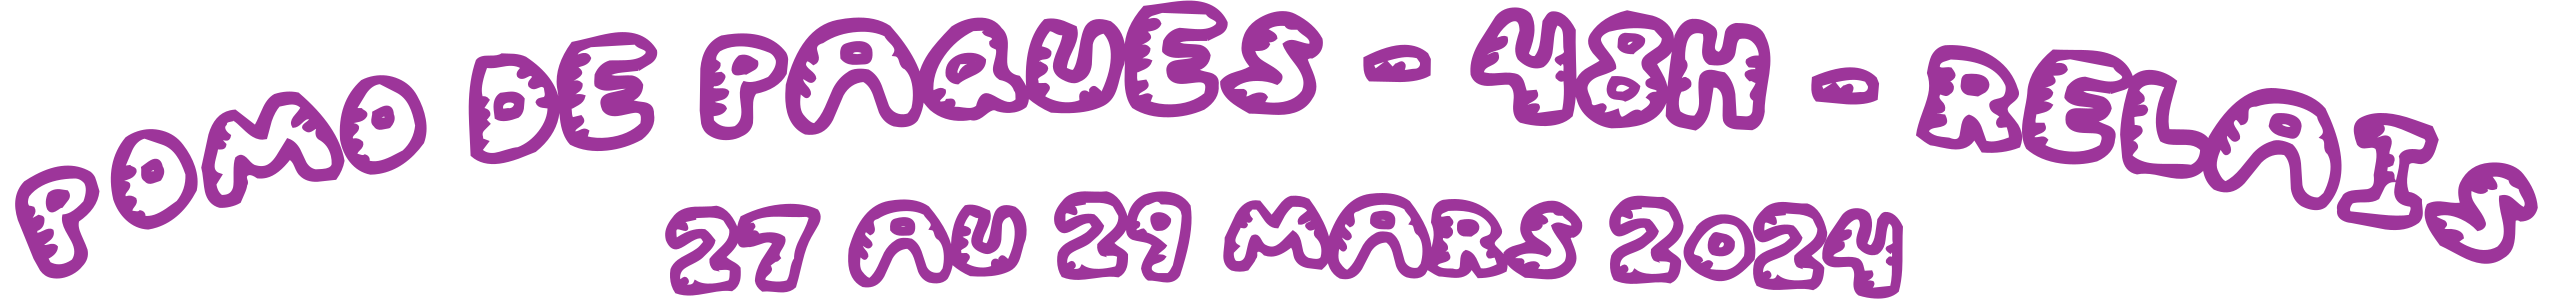
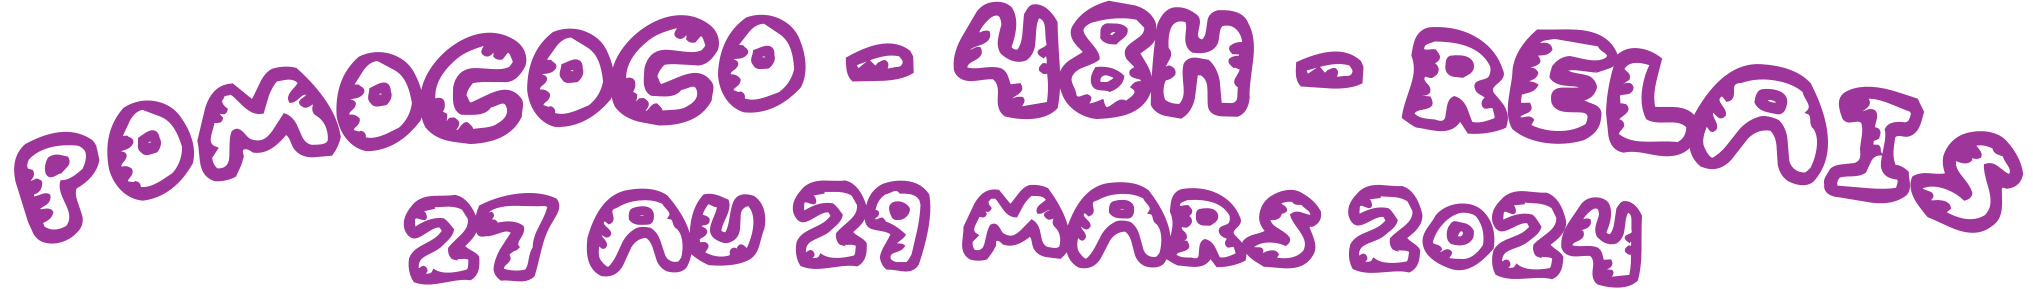
Changed name for PomoCoco

diff --git a/lib/main.dart b/lib/main.dart
@@ -1,14 +1,14 @@
 import 'package:flutter/material.dart';
 import 'package:intl/date_symbol_data_local.dart';
 import 'package:intl/intl.dart';
-import 'package:pomo_de_paque_website/managers/chatters_manager.dart';
-import 'package:pomo_de_paque_website/managers/config_manager.dart';
-import 'package:pomo_de_paque_website/managers/schedule_manager.dart';
-import 'package:pomo_de_paque_website/managers/theme_manager.dart';
-import 'package:pomo_de_paque_website/models/chatter.dart';
-import 'package:pomo_de_paque_website/managers/twitch_manager.dart';
-import 'package:pomo_de_paque_website/screens/connect_streamers_page.dart';
-import 'package:pomo_de_paque_website/screens/main_page.dart';
+import 'package:pomo_coco_website/managers/chatters_manager.dart';
+import 'package:pomo_coco_website/managers/config_manager.dart';
+import 'package:pomo_coco_website/managers/schedule_manager.dart';
+import 'package:pomo_coco_website/managers/theme_manager.dart';
+import 'package:pomo_coco_website/models/chatter.dart';
+import 'package:pomo_coco_website/managers/twitch_manager.dart';
+import 'package:pomo_coco_website/screens/connect_streamers_page.dart';
+import 'package:pomo_coco_website/screens/main_page.dart';
 
 Future<void> _initializeIntl() async {
   WidgetsFlutterBinding.ensureInitialized();
@@ -16,15 +16,16 @@ Future<void> _initializeIntl() async {
   await initializeDateFormatting();
 }
 
-Future<void> _initializeManagers({bool useMock = false}) async {
-  if (useMock) TwitchManagerMock.initializeMock();
+Future<void> _initializeManagers(
+    {bool useTwitchMock = false, bool useManagerMock = false}) async {
+  if (useTwitchMock) TwitchManagerMock.initializeMock();
   TwitchManager.instance.initialize(
-    useMock: useMock,
+    useMock: useTwitchMock,
     debugOptions: ConfigManager.instance.twitchDebugPanel,
     appInfo: ConfigManager.instance.twichAppInfo,
   );
 
-  if (useMock) {
+  if (useManagerMock) {
     ScheduleManagerMock.initializeMock();
 
     final chatters = ChattersManager.instance;
@@ -40,7 +41,7 @@ Future<void> _initializeManagers({bool useMock = false}) async {
 
 void main() async {
   await _initializeIntl();
-  await _initializeManagers(useMock: false);
+  await _initializeManagers(useTwitchMock: false, useManagerMock: true);
   runApp(const MyApp(isServer: false));
 }
 

diff --git a/lib/screens/introduction_page.dart b/lib/screens/introduction_page.dart
@@ -1,8 +1,8 @@
 import 'package:flutter/gestures.dart';
 import 'package:flutter/material.dart';
-import 'package:pomo_de_paque_website/managers/config_manager.dart';
-import 'package:pomo_de_paque_website/widgets/tab_container.dart';
-import 'package:pomo_de_paque_website/widgets/youtube_box.dart';
+import 'package:pomo_coco_website/managers/config_manager.dart';
+import 'package:pomo_coco_website/widgets/tab_container.dart';
+import 'package:pomo_coco_website/widgets/youtube_box.dart';
 import 'package:url_launcher/url_launcher.dart';
 import 'package:youtube_player_iframe/youtube_player_iframe.dart';
 
@@ -38,10 +38,10 @@ class IntroductionPage extends StatelessWidget {
           ),
           const SizedBox(height: 12),
           const Text(
-              'Bienvenue au Pomo-de-Pâques-48h-Relais!! Yeah!! Heu... le quoi?'),
+              'Bienvenue au PomoCoco-48h-Relais!! Yeah!! Heu... le quoi?'),
           const SizedBox(height: 12),
           const Text(
-              'Le Pomo-de-Pâques-48h-Relais! Ça ne te dit toujours rien? Je t\'explique :'),
+              'Le PomoCoco-48h-Relais! Ça ne te dit toujours rien? Je t\'explique :'),
           const SizedBox(height: 12),
           Text.rich(TextSpan(children: [
             const TextSpan(
@@ -61,7 +61,7 @@ class IntroductionPage extends StatelessWidget {
             ),
             const TextSpan(
                 text:
-                    '), «\u00a0Pâques\u00a0» car l\'événement se tient tout prêt '
+                    '), «\u00a0Coco\u00a0» car l\'événement se tient tout prêt '
                     ' de la fête des oeufs et «\u00a048h\u00a0» pour...48 heures! '
                     'Il s\'agit de la troisième édition de l\'événement de '
                     'cotravail en ligne organisé par des animateurs\u00b7trices de la communauté '

diff --git a/lib/screens/main_page.dart b/lib/screens/main_page.dart
@@ -2,17 +2,17 @@ import 'dart:async';
 import 'dart:math';
 
 import 'package:flutter/material.dart';
-import 'package:pomo_de_paque_website/managers/chatters_manager.dart';
-import 'package:pomo_de_paque_website/managers/schedule_manager.dart';
-import 'package:pomo_de_paque_website/managers/theme_manager.dart';
-import 'package:pomo_de_paque_website/screens/introduction_page.dart';
-import 'package:pomo_de_paque_website/screens/prize_page.dart';
-import 'package:pomo_de_paque_website/screens/schedule_page.dart';
-import 'package:pomo_de_paque_website/screens/streamers_page.dart';
-import 'package:pomo_de_paque_website/screens/thanking_page.dart';
-import 'package:pomo_de_paque_website/screens/viewers_page.dart';
-import 'package:pomo_de_paque_website/widgets/background.dart';
-import 'package:pomo_de_paque_website/widgets/menu.dart';
+import 'package:pomo_coco_website/managers/chatters_manager.dart';
+import 'package:pomo_coco_website/managers/schedule_manager.dart';
+import 'package:pomo_coco_website/managers/theme_manager.dart';
+import 'package:pomo_coco_website/screens/introduction_page.dart';
+import 'package:pomo_coco_website/screens/prize_page.dart';
+import 'package:pomo_coco_website/screens/schedule_page.dart';
+import 'package:pomo_coco_website/screens/streamers_page.dart';
+import 'package:pomo_coco_website/screens/thanking_page.dart';
+import 'package:pomo_coco_website/screens/viewers_page.dart';
+import 'package:pomo_coco_website/widgets/background.dart';
+import 'package:pomo_coco_website/widgets/menu.dart';
 
 class MainPage extends StatefulWidget {
   const MainPage({super.key, required this.isServer});

diff --git a/lib/screens/streamers_page.dart b/lib/screens/streamers_page.dart
@@ -1,10 +1,10 @@
 import 'package:flutter/material.dart';
-import 'package:pomo_de_paque_website/managers/config_manager.dart';
-import 'package:pomo_de_paque_website/managers/theme_manager.dart';
-import 'package:pomo_de_paque_website/models/streamer_info.dart';
-import 'package:pomo_de_paque_website/widgets/animated_expanding_card.dart';
-import 'package:pomo_de_paque_website/widgets/tab_container.dart';
-import 'package:pomo_de_paque_website/widgets/youtube_box.dart';
+import 'package:pomo_coco_website/managers/config_manager.dart';
+import 'package:pomo_coco_website/managers/theme_manager.dart';
+import 'package:pomo_coco_website/models/streamer_info.dart';
+import 'package:pomo_coco_website/widgets/animated_expanding_card.dart';
+import 'package:pomo_coco_website/widgets/tab_container.dart';
+import 'package:pomo_coco_website/widgets/youtube_box.dart';
 import 'package:url_launcher/url_launcher.dart';
 import 'package:youtube_player_iframe/youtube_player_iframe.dart';
 

diff --git a/lib/screens/viewers_page.dart b/lib/screens/viewers_page.dart
@@ -1,10 +1,10 @@
 import 'package:flutter/material.dart';
-import 'package:pomo_de_paque_website/managers/chatters_manager.dart';
-import 'package:pomo_de_paque_website/managers/schedule_manager.dart';
-import 'package:pomo_de_paque_website/managers/theme_manager.dart';
-import 'package:pomo_de_paque_website/models/chatter.dart';
-import 'package:pomo_de_paque_website/widgets/animated_expanding_card.dart';
-import 'package:pomo_de_paque_website/widgets/tab_container.dart';
+import 'package:pomo_coco_website/managers/chatters_manager.dart';
+import 'package:pomo_coco_website/managers/schedule_manager.dart';
+import 'package:pomo_coco_website/managers/theme_manager.dart';
+import 'package:pomo_coco_website/models/chatter.dart';
+import 'package:pomo_coco_website/widgets/animated_expanding_card.dart';
+import 'package:pomo_coco_website/widgets/tab_container.dart';
 
 class ViewersPage extends StatefulWidget {
   const ViewersPage(

diff --git a/lib/managers/config_manager.dart b/lib/managers/config_manager.dart
@@ -1,4 +1,4 @@
-import 'package:pomo_de_paque_website/models/streamer_info.dart';
+import 'package:pomo_coco_website/models/streamer_info.dart';
 import 'package:twitch_manager/twitch_manager.dart';
 
 class ConfigManager {
@@ -12,7 +12,7 @@ class ConfigManager {
   ///
   /// General information
   ///
-  final eventName = 'Pomo de Paques - 48h - Relais';
+  final eventName = 'PomoCoco - 48h - Relais';
   final facebookEventUrl = 'https://facebook.com/events/1557104731490847';
   String youtubeEventUrlId = 'eodaPPwvwxw';
 
@@ -68,8 +68,8 @@ class ConfigManager {
   /// Twitch information
   ///
   final twichAppInfo = TwitchAppInfo(
-    appName: 'Pomo de Paque - 48h - Relais',
-    twitchAppId: 'XXXXXXX',
+    appName: 'PomoCoco - 48h - Relais',
+    twitchAppId: 'wuxnu9zxzhgu3noztxtgdsulk4c950',
     redirectDomain: 'twitchauthentication.pariterre.net',
     scope: [TwitchScope.chatters, TwitchScope.readFollowers],
   );

diff --git a/web/index.html b/web/index.html
@@ -18,18 +18,18 @@
 
   <meta charset="UTF-8">
   <meta content="IE=Edge" http-equiv="X-UA-Compatible">
-  <meta name="description" content="Le site officiel du PomoDePâques 48h Relais!">
+  <meta name="description" content="Le site officiel du PomoCoco-48h-Relais!">
 
   <!-- iOS meta tags & icons -->
   <meta name="apple-mobile-web-app-capable" content="yes">
   <meta name="apple-mobile-web-app-status-bar-style" content="black">
-  <meta name="apple-mobile-web-app-title" content="PomoDePâques-48h-Relais">
+  <meta name="apple-mobile-web-app-title" content="PomoCoco-48h-Relais">
   <link rel="apple-touch-icon" href="icons/Icon-192.png">
 
   <!-- Favicon -->
   <link rel="icon" type="image/png" href="favicon.png"/>
 
-  <title>PomoDePâques-48h-Relais</title>
+  <title>PomoCoco-48h-Relais</title>
   <link rel="manifest" href="manifest.json">
 
   <script>window.flutterWebRenderer = "html"</script>

diff --git a/lib/screens/prize_page.dart b/lib/screens/prize_page.dart
@@ -2,10 +2,10 @@ import 'dart:math';
 
 import 'package:flutter/material.dart';
 import 'package:flutter/services.dart';
-import 'package:pomo_de_paque_website/managers/chatters_manager.dart';
-import 'package:pomo_de_paque_website/managers/theme_manager.dart';
-import 'package:pomo_de_paque_website/models/chatter.dart';
-import 'package:pomo_de_paque_website/widgets/tab_container.dart';
+import 'package:pomo_coco_website/managers/chatters_manager.dart';
+import 'package:pomo_coco_website/managers/theme_manager.dart';
+import 'package:pomo_coco_website/models/chatter.dart';
+import 'package:pomo_coco_website/widgets/tab_container.dart';
 
 class PrizePage extends StatefulWidget {
   const PrizePage({super.key, required this.maxWidth});

diff --git a/lib/screens/schedule_page.dart b/lib/screens/schedule_page.dart
@@ -1,9 +1,9 @@
 import 'package:flutter/material.dart';
 import 'package:intl/intl.dart';
-import 'package:pomo_de_paque_website/managers/schedule_manager.dart';
-import 'package:pomo_de_paque_website/managers/theme_manager.dart';
-import 'package:pomo_de_paque_website/models/schedule_info.dart';
-import 'package:pomo_de_paque_website/widgets/tab_container.dart';
+import 'package:pomo_coco_website/managers/schedule_manager.dart';
+import 'package:pomo_coco_website/managers/theme_manager.dart';
+import 'package:pomo_coco_website/models/schedule_info.dart';
+import 'package:pomo_coco_website/widgets/tab_container.dart';
 import 'package:url_launcher/url_launcher.dart';
 
 class SchedulePage extends StatefulWidget {

diff --git a/lib/widgets/background.dart b/lib/widgets/background.dart
@@ -2,7 +2,7 @@ import 'dart:async';
 import 'dart:math';
 
 import 'package:flutter/material.dart';
-import 'package:pomo_de_paque_website/managers/theme_manager.dart';
+import 'package:pomo_coco_website/managers/theme_manager.dart';
 
 class Background extends StatelessWidget {
   const Background({super.key, required this.child});
@@ -79,7 +79,7 @@ class Background extends StatelessWidget {
           Positioned(
             top: 30,
             child: SizedBox(
-              width: min(700, MediaQuery.of(context).size.width * 0.8),
+              width: min(650, MediaQuery.of(context).size.width * 0.8),
               child: Image.asset('assets/images/title.png'),
             ),
           ),

diff --git a/lib/managers/chatters_manager.dart b/lib/managers/chatters_manager.dart
@@ -1,9 +1,9 @@
 import 'dart:async';
 
-import 'package:pomo_de_paque_website/models/chatter.dart';
-import 'package:pomo_de_paque_website/models/custom_listener.dart';
-import 'package:pomo_de_paque_website/models/streamer.dart';
-import 'package:pomo_de_paque_website/managers/twitch_manager.dart';
+import 'package:pomo_coco_website/models/chatter.dart';
+import 'package:pomo_coco_website/models/custom_listener.dart';
+import 'package:pomo_coco_website/models/streamer.dart';
+import 'package:pomo_coco_website/managers/twitch_manager.dart';
 import 'package:quiver/collection.dart';
 
 class ChattersManager extends DelegatingList<Chatter> with CustomListener {

diff --git a/lib/screens/connect_streamers_page.dart b/lib/screens/connect_streamers_page.dart
@@ -1,6 +1,6 @@
 import 'package:flutter/material.dart';
-import 'package:pomo_de_paque_website/managers/twitch_manager.dart';
-import 'package:pomo_de_paque_website/screens/main_page.dart';
+import 'package:pomo_coco_website/managers/twitch_manager.dart';
+import 'package:pomo_coco_website/screens/main_page.dart';
 import 'package:shared_preferences/shared_preferences.dart';
 import 'package:twitch_manager/twitch_manager.dart' as tm;
 
